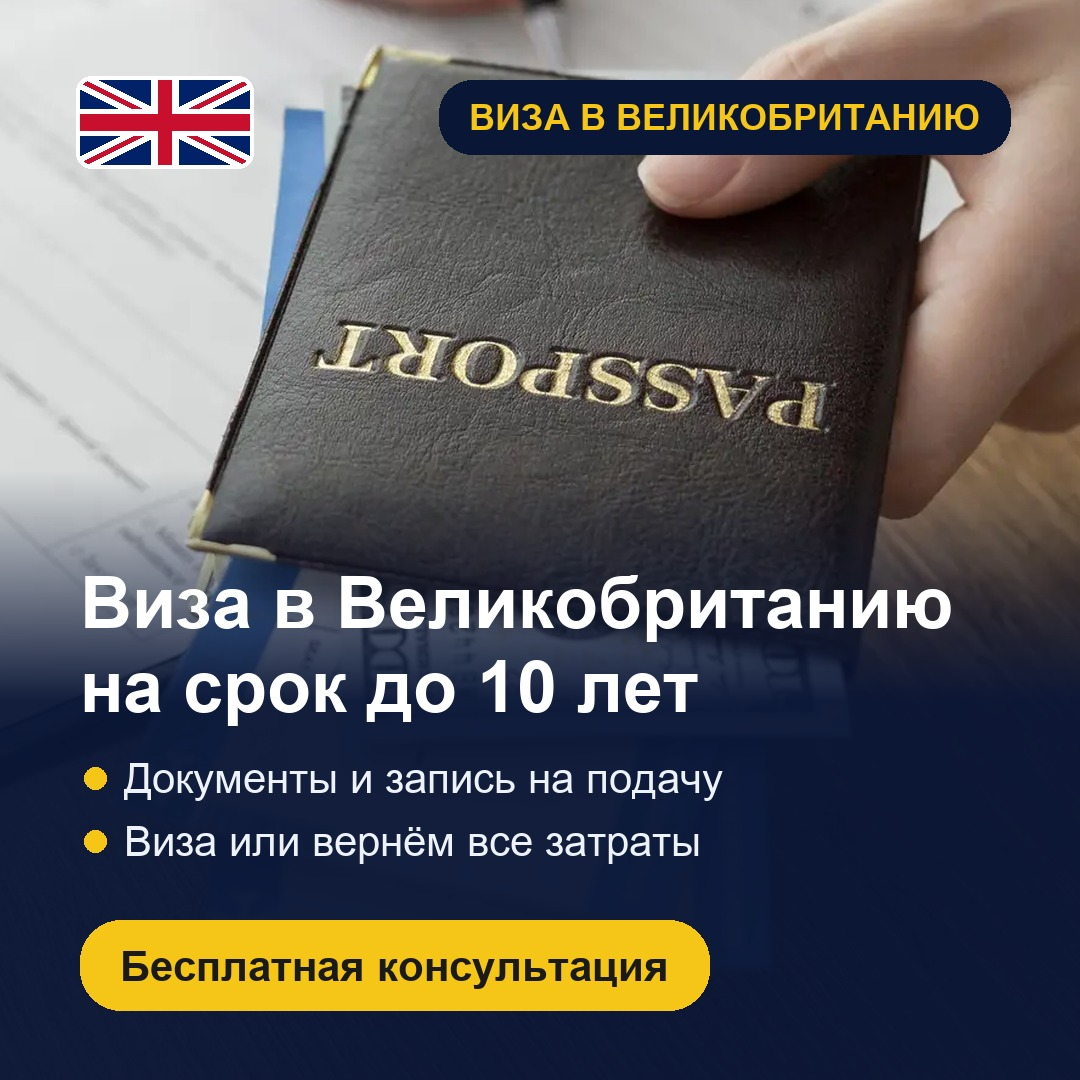
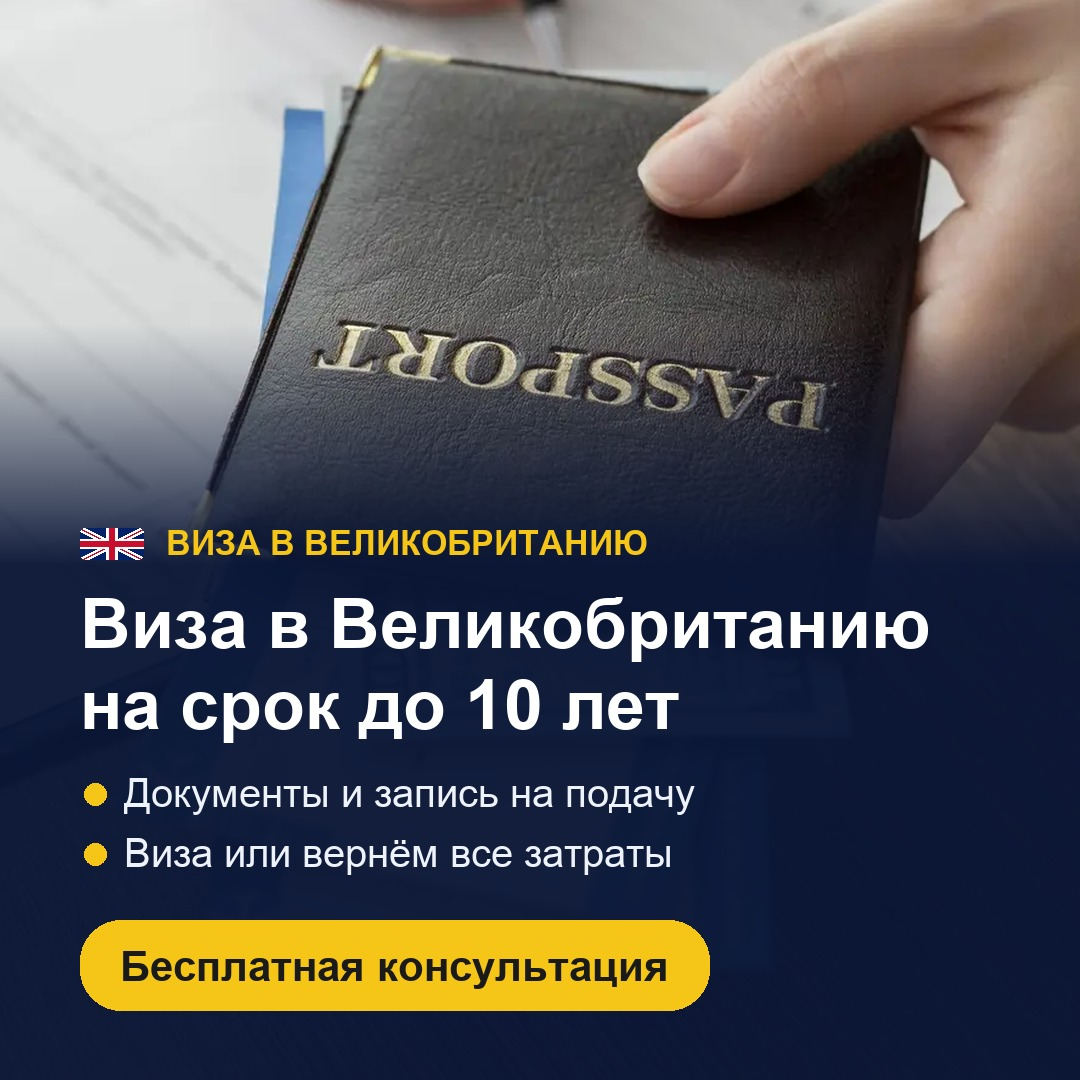
Креативы США/Великобритании: флаг значком над заголовком, без плашек на фото

Changed region(s): [[0.0, 0.3056, 1.0, 0.825], [0.3972, 0.0611, 0.9472, 0.1528], [0.0611, 0.0611, 0.2444, 0.1833]]

diff --git a/vscom/tools/visa_creatives.py b/vscom/tools/visa_creatives.py
@@ -99,10 +99,10 @@ def flag_gb(im, x, y, w):
 
 
 def paste_flag(im, fl, x, y):
-    # скруглённые углы и тонкая белая рамка — флаг читается на тёмном фото
+    # маленький флаг со скруглёнными углами — значок в строке над заголовком
+    r = max(4, fl.width // 12)
     m = Image.new("L", fl.size, 0)
-    ImageDraw.Draw(m).rounded_rectangle([0, 0, fl.width - 1, fl.height - 1], 12, fill=255)
-    ImageDraw.Draw(im).rounded_rectangle([x - 4, y - 4, x + fl.width + 3, y + fl.height + 3], 15, fill="white")
+    ImageDraw.Draw(m).rounded_rectangle([0, 0, fl.width - 1, fl.height - 1], r, fill=255)
     im.paste(fl, (x, y), m)
 
 
@@ -139,29 +139,45 @@ def save(im, c, story):
     im.save(os.path.join(d, "сторис и Reels 9x16.jpg" if story else "лента 1x1.jpg"), quality=92)
 
 
+def label(im, d, c, y, size):
+    """Строка «флаг + ВИЗА В …» золотом над заголовком, на тёмном фоне, не на фото."""
+    fw = int(size * 1.9)
+    fh = int(fw * 10 / 19) if c["flag"] is flag_us else fw // 2
+    c["flag"](im, 80, y + (size - fh) // 2 + 3, fw)
+    d.text((80 + fw + 22, y), c["tag"], font=font(True, size), fill=GOLD)
+    return y + size + 26
+
+
+def block(im, d, c, y, ls, hs, bs, cs):
+    y = label(im, d, c, y, ls)
+    y = text(d, c, y, hs, bs)
+    return pill(d, 80, y + 30, CTA, cs, GOLD, "#1A1A1A", pad=40)
+
+
+def measure(c, *a):
+    tmp = Image.new("RGB", (W, W))
+    return block(tmp, ImageDraw.Draw(tmp), c, 0, *a)
+
+
 def feed(c):
-    im = shade(photo(W, 1750), 470, 700)
-    c["flag"](im, 80, 80, 170)
-    d = ImageDraw.Draw(im)
-    pill(d, W - 70, 80, c["tag"], 36, NAVY, GOLD, right=True)
-    h = text(ImageDraw.Draw(Image.new("RGB", (W, W))), c, 0)
-    text(d, c, 880 - h)
-    pill(d, 80, 920, CTA, 42, GOLD, "#1A1A1A", pad=40)
+    # Лента 1:1: сверху чистое фото, весь текст — на затемнении снизу
+    sz = (34, 70, 40, 42)
+    y0 = 1010 - measure(c, *sz)
+    im = shade(photo(W, 1750), y0 - 200, y0 + 40)
+    block(im, ImageDraw.Draw(im), c, y0, *sz)
     save(im, c, False)
 
 
 def story(c):
-    # Сверху ~250 px закрывает имя аккаунта, снизу ~340 px — кнопка: важное между ними.
+    # Сторис 9:16: сверху ~250 px закрывает имя аккаунта, снизу ~340 px — кнопка.
+    # Фото в верхней части, текст на тёмно-синем ниже, заканчивается к 1580.
     H = 1920
+    sz = (40, 72, 50, 48)
+    y0 = 1580 - measure(c, *sz)
     im = Image.new("RGB", (W, H), NAVY)
-    im.paste(photo(1060), (0, 0))
-    im = shade(im, 600, 1040, 255)
-    c["flag"](im, 80, 280, 220)
-    d = ImageDraw.Draw(im)
-    y = pill(d, 80, 940, c["tag"], 40, GOLD, "#1A1A1A") + 36
-    y = text(d, c, y, 72, 50)
-    pill(d, 80, y + 40, CTA, 48, GOLD, "#1A1A1A", pad=44)
-    assert y + 40 + 110 <= 1580, (c["tag"], y)
+    im.paste(photo(y0 + 80), (0, 0))
+    im = shade(im, y0 - 320, y0 + 40, 255)
+    block(im, ImageDraw.Draw(im), c, y0, *sz)
     save(im, c, True)
 
 
